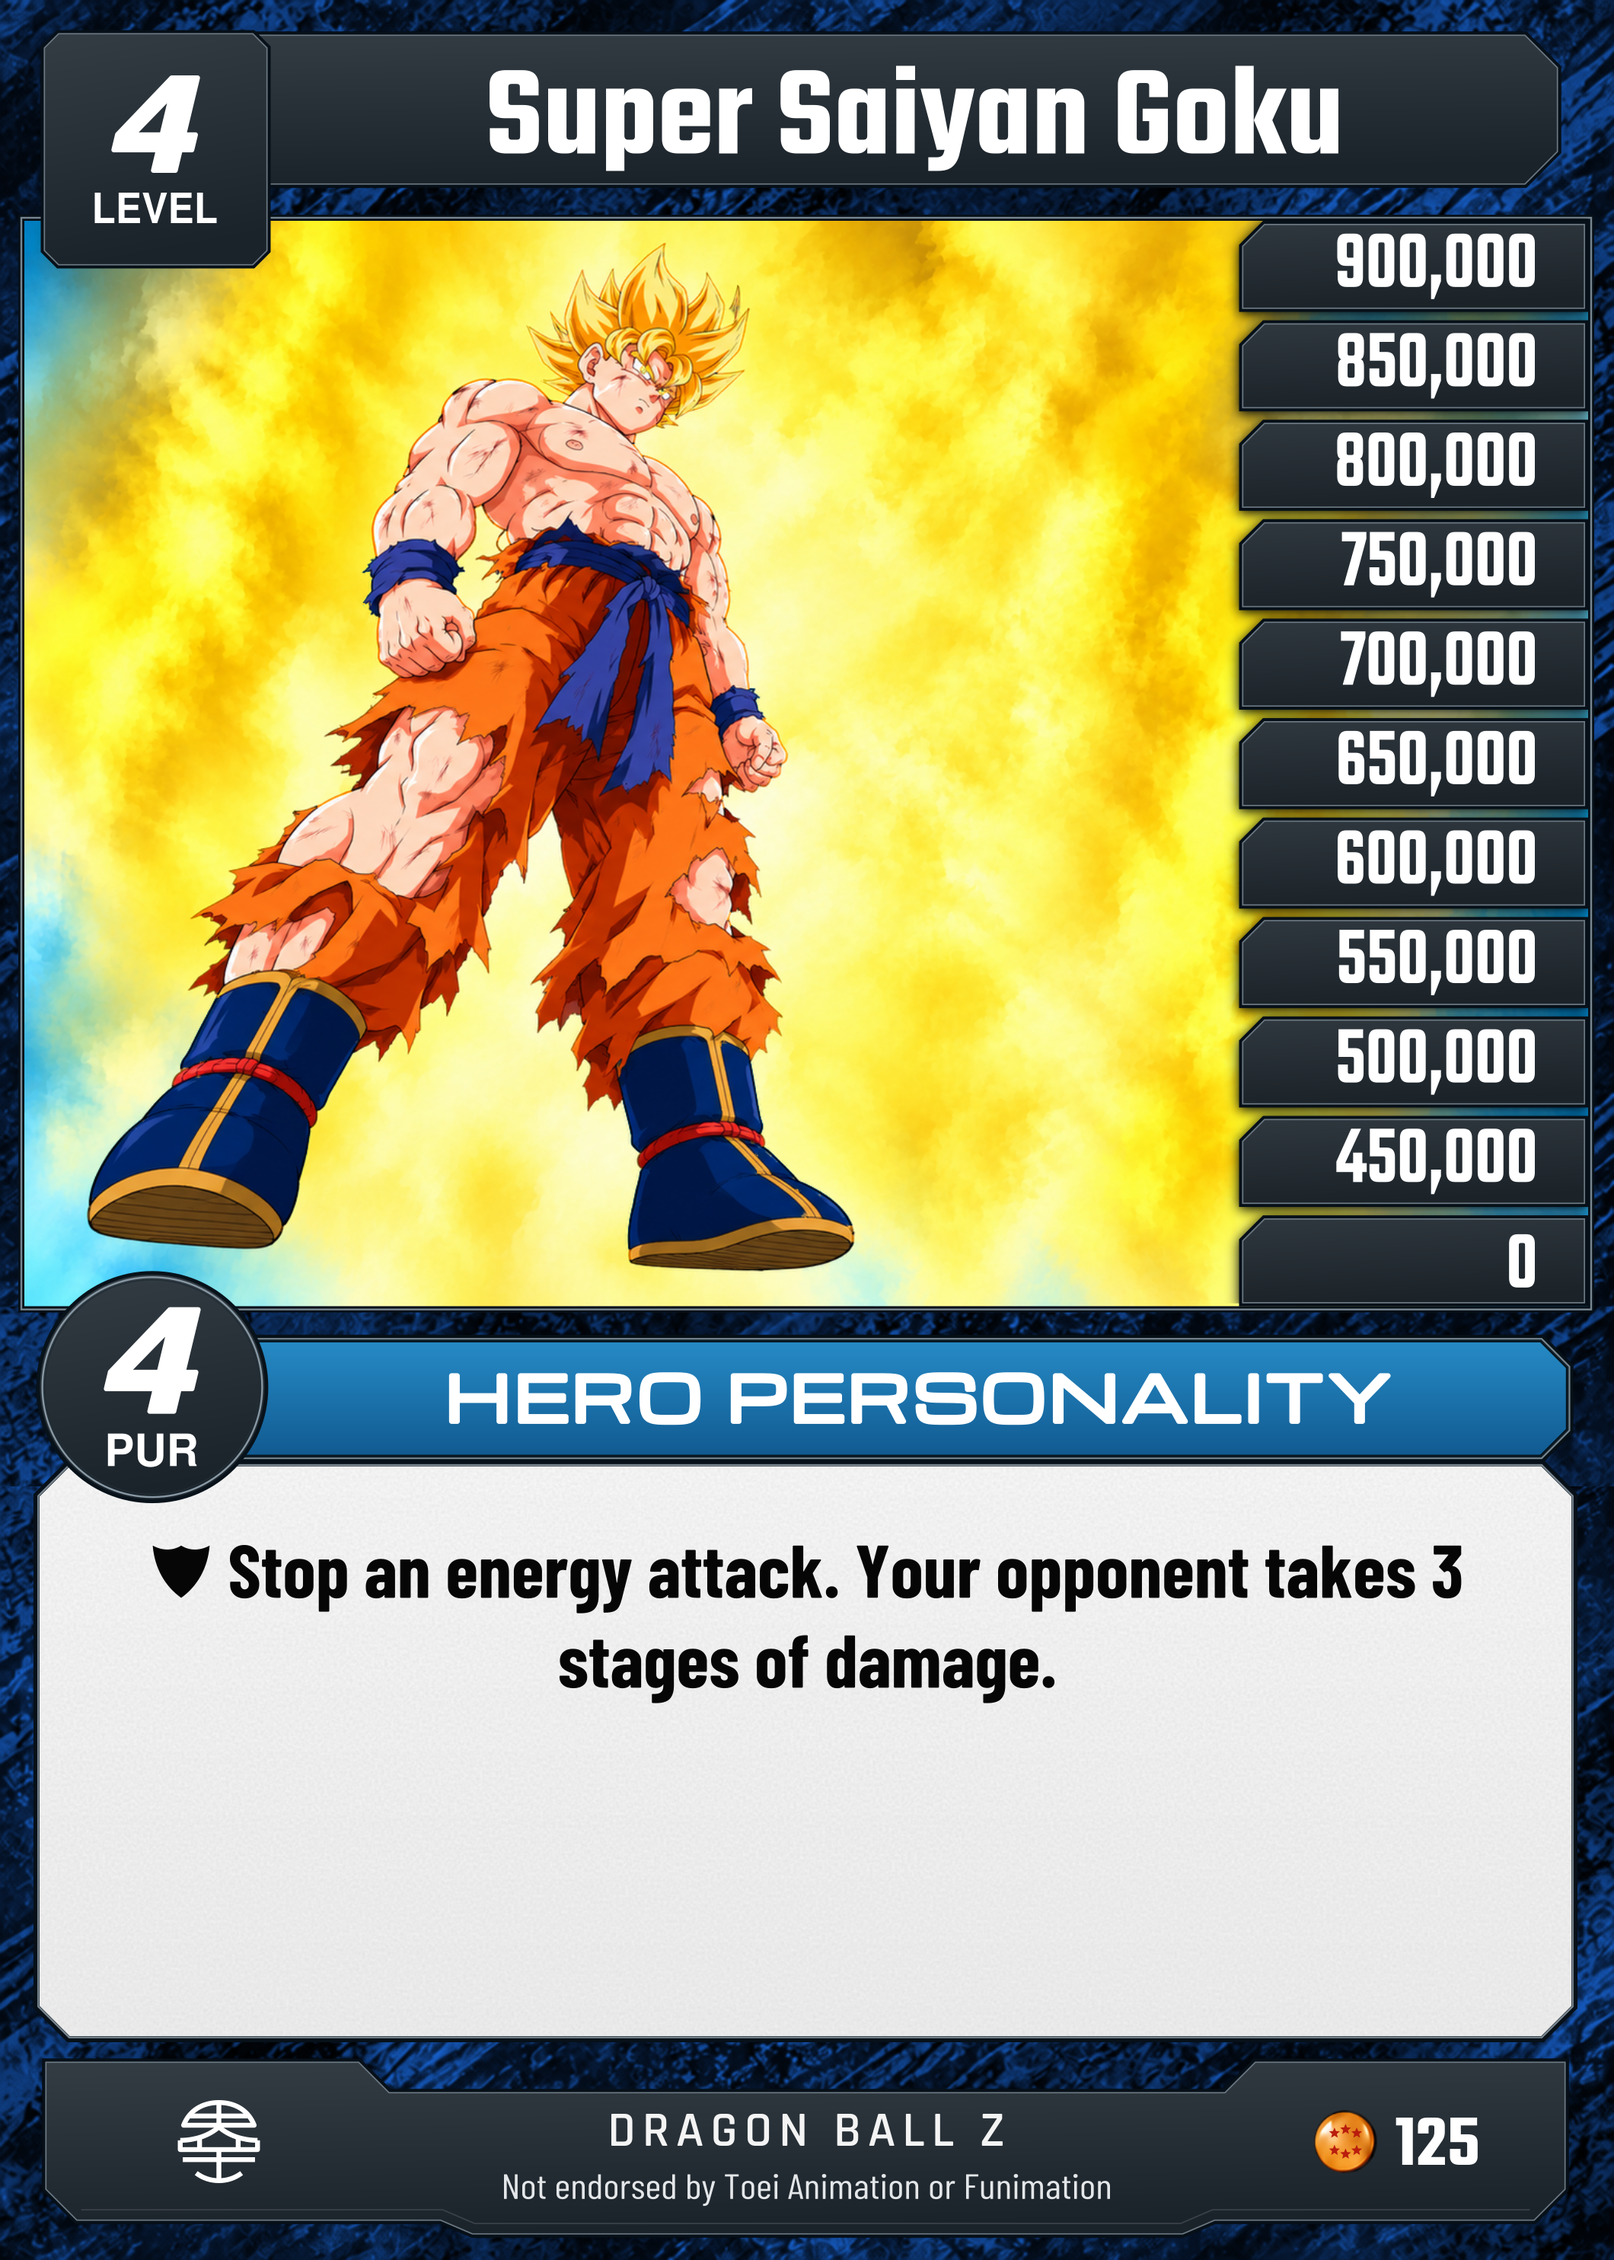
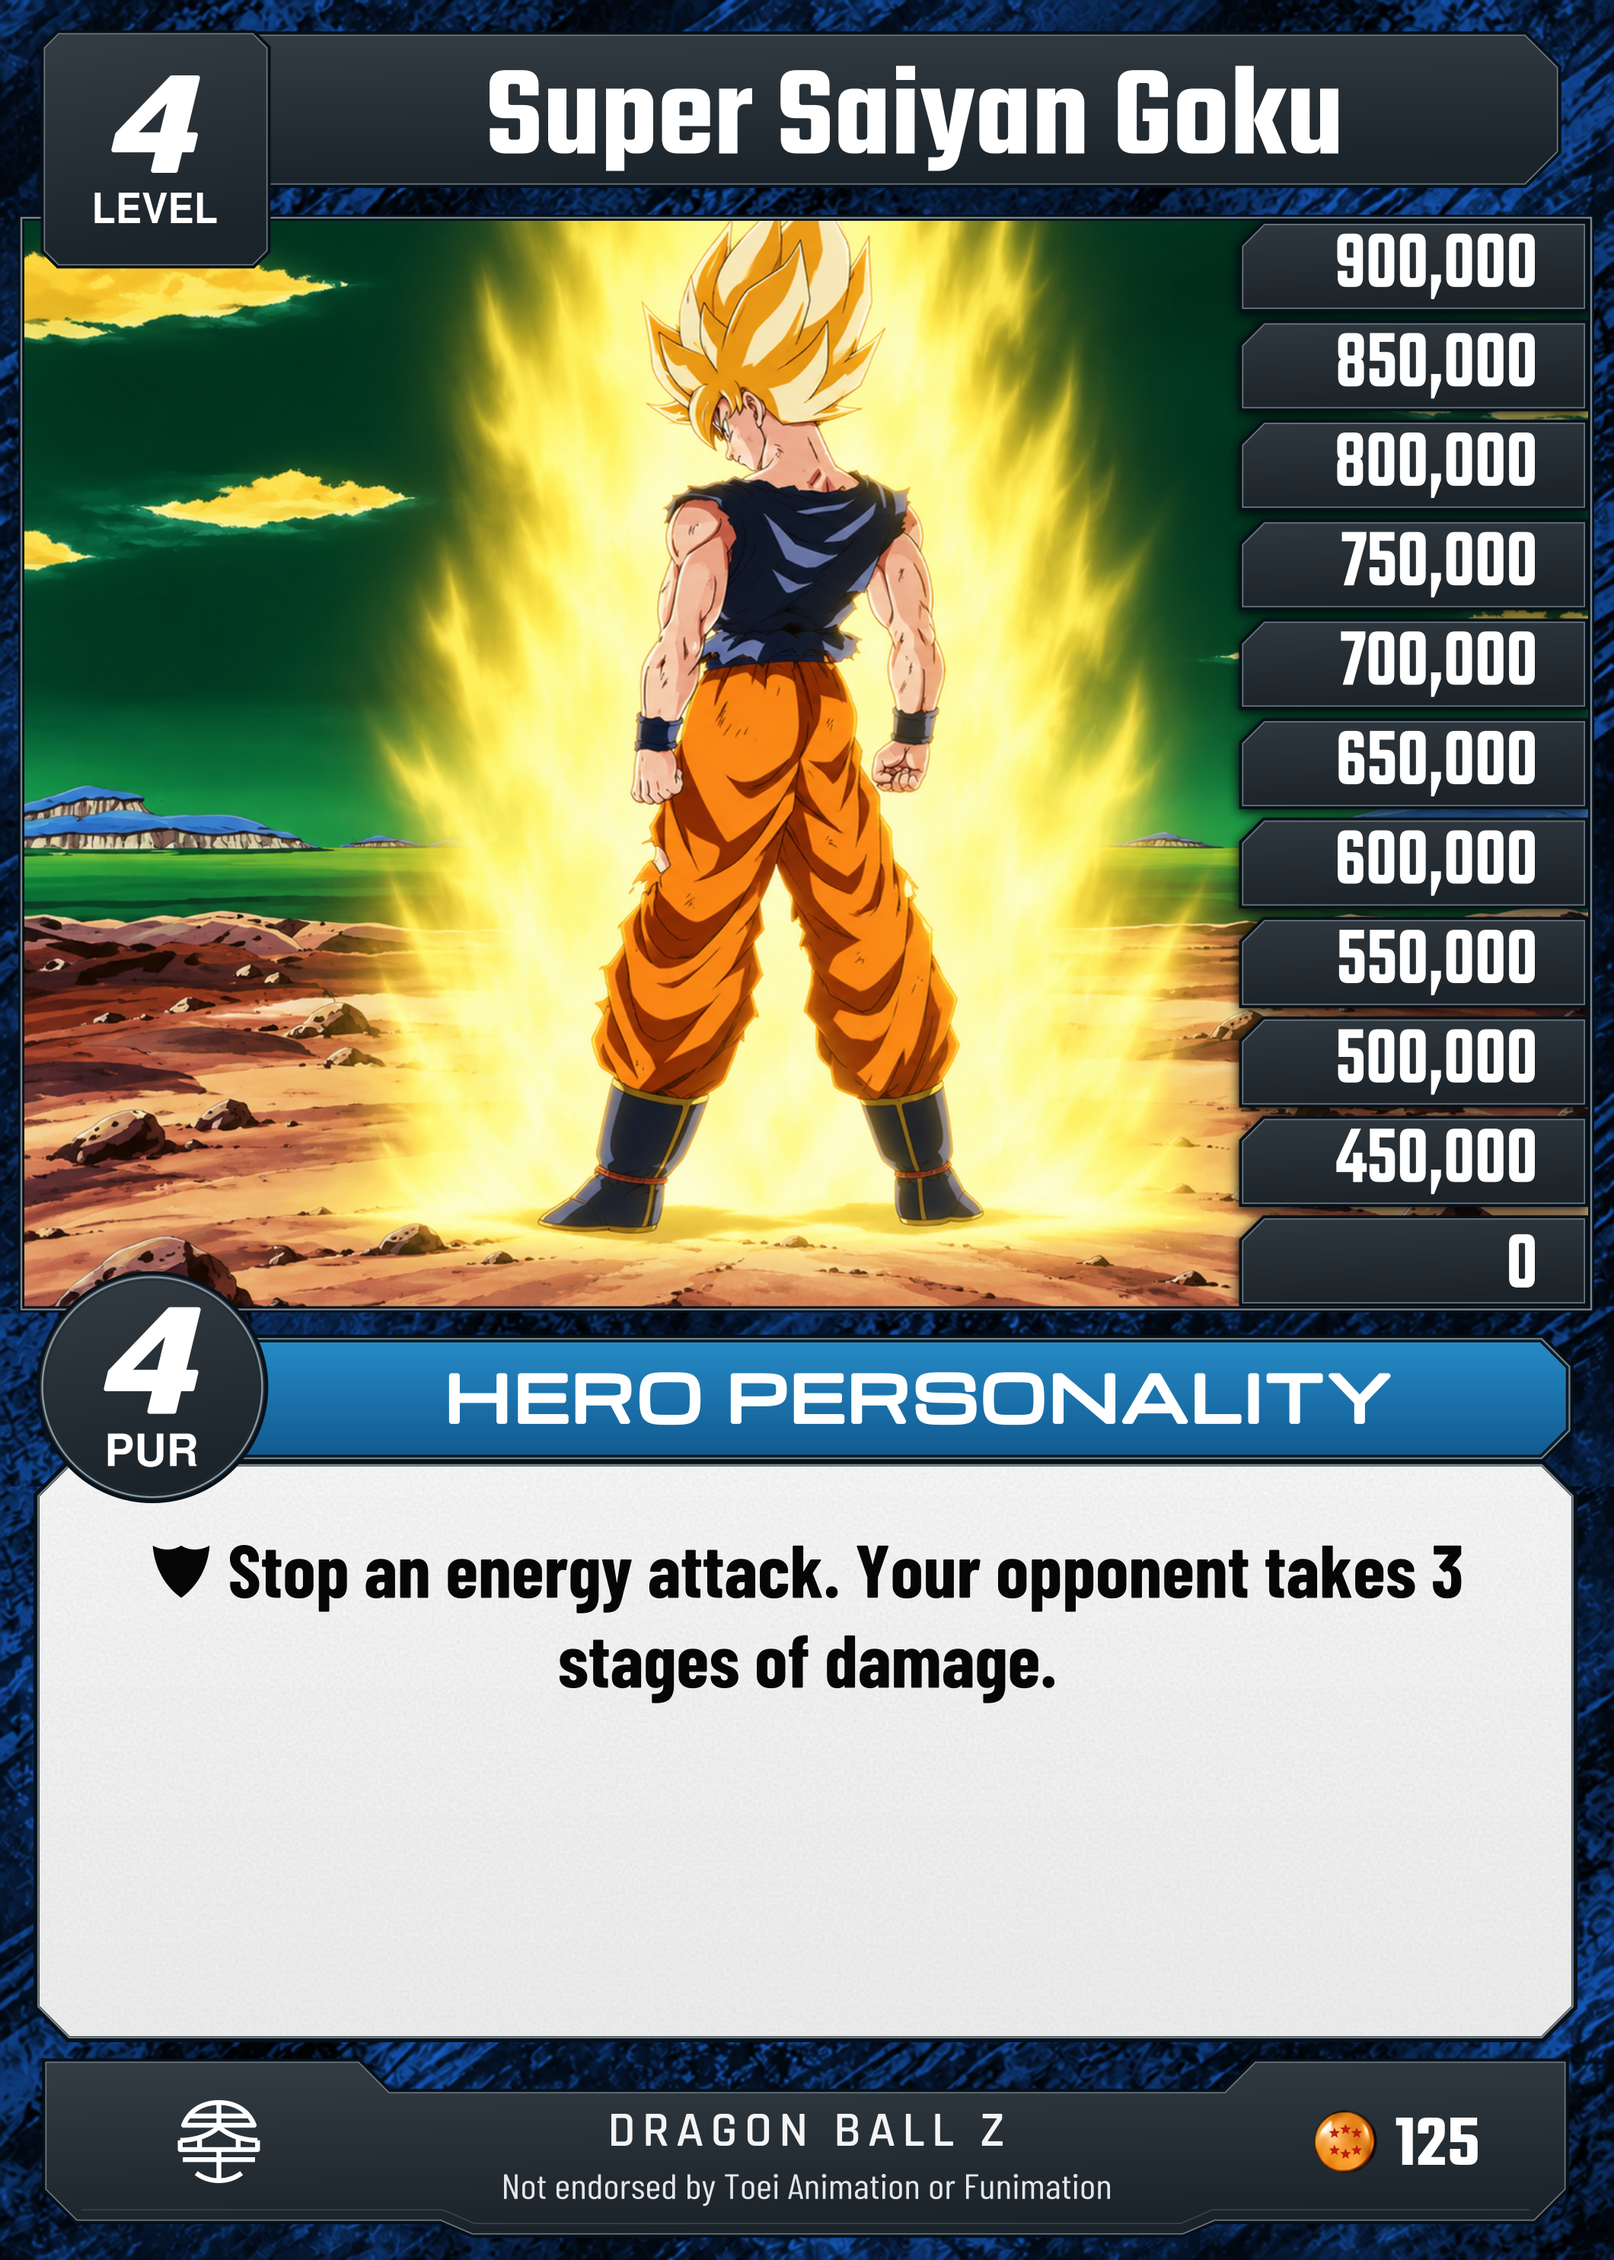
Modernize Goku Level 4 artwork from supplied Namek reference
Replace the Frieza Saga #125 illustration with rear-facing Super Saiyan Goku in a golden aura on Namek, following the supplied pose, costume and composition. Retain the native frame, stage boxes, text and game data, and update display/download cache versions.

Validation: 14 card routing/browser tests pass; native SVG elements outside the illustration match exactly; zero decoded-pixel changes outside the artwork mask; PNG and lossless WebP match.

diff --git a/public/cards/catalog.js b/public/cards/catalog.js
@@ -5977,8 +5977,8 @@ export const catalog = [
       450000,
       0
     ],
-    "image": "/assets/cards/frieza-125-super-saiyan-goku.webp?v=f6fc650f6e6b",
-    "downloadImage": "/assets/cards/downloads/frieza-125-super-saiyan-goku.webp?v=a4714765f1fc"
+    "image": "/assets/cards/frieza-125-super-saiyan-goku.webp?v=7db0a8b51ed1",
+    "downloadImage": "/assets/cards/downloads/frieza-125-super-saiyan-goku.webp?v=ce04a6dfa3c2"
   },
   {
     "id": "frieza-p1-it-s-just-not-worth-it",
